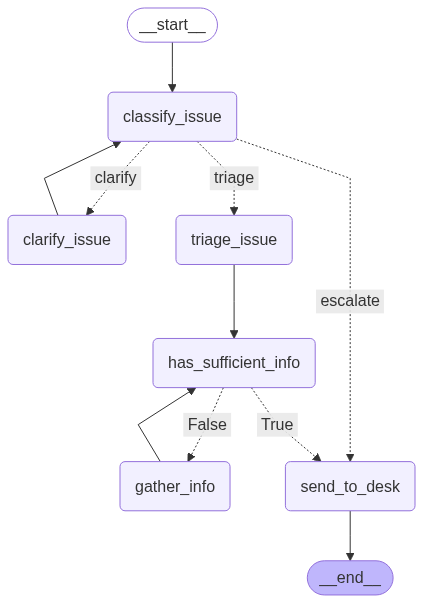
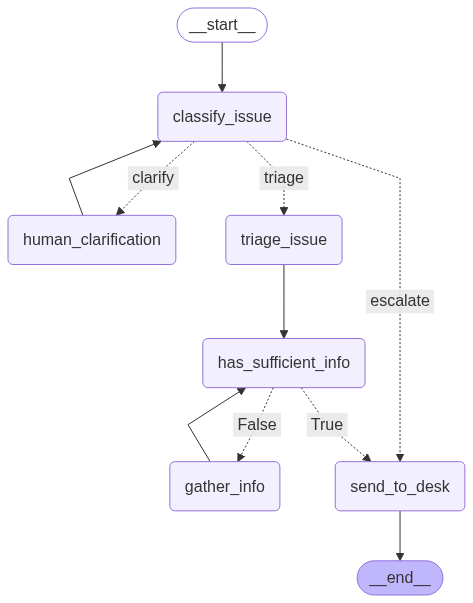
clarify_issue -> human_clarification + CLAUDE.md

diff --git a/backend/src/workflows/support_desk/workflow.py b/backend/src/workflows/support_desk/workflow.py
@@ -11,7 +11,7 @@ from langgraph.graph import StateGraph, END
 from langgraph.checkpoint.memory import MemorySaver
 
 from .state import SupportDeskState
-from .nodes.clarify_issue import clarify_issue_node
+from .nodes.human_clarification import human_clarification_node
 from .nodes.classify_issue import classify_issue_node, should_continue_to_triage
 from .nodes.triage_issue import triage_issue_node
 from .nodes.has_sufficient_info import has_sufficient_info_node, has_sufficient_info
@@ -33,14 +33,14 @@ def create_workflow(checkpointer, draw_diagram: bool = True):
     Enhanced Flow with Info Sufficiency Check:
     classify_issue → [sufficient info?] → triage_issue → has_sufficient_info
          ↑               [no]                                ↓ [False]        ↓ [True]
-         └─── clarify_issue ←──┘                      gather_info ←──┘    send_to_desk
+         └─── human_clarification ←──┘              gather_info ←──┘    send_to_desk
                                                            ↓ [asked question]
                                                       has_sufficient_info
     
     Natural Flow Behavior:
     - classify_issue attempts classification first
-    - If insufficient information: routes to clarify_issue for questions  
-    - clarify_issue asks for details and returns to classification
+    - If insufficient information: routes to human_clarification for questions  
+    - human_clarification collects user details and returns to classification
     - triage_issue assigns support team once classification is confident
     - has_sufficient_info determines if enough info exists (fast tool call)
     - gather_info asks ONE targeted question using streaming (HITL)
@@ -64,7 +64,7 @@ def create_workflow(checkpointer, draw_diagram: bool = True):
     workflow = StateGraph(SupportDeskState)
     
     # Add nodes to the workflow
-    workflow.add_node("clarify_issue", clarify_issue_node)
+    workflow.add_node("human_clarification", human_clarification_node)
     workflow.add_node("classify_issue", classify_issue_node)
     workflow.add_node("triage_issue", triage_issue_node)
     workflow.add_node("has_sufficient_info", has_sufficient_info_node)
@@ -79,14 +79,14 @@ def create_workflow(checkpointer, draw_diagram: bool = True):
         "classify_issue",
         should_continue_to_triage,
         {
-            "clarify": "clarify_issue",    # Need clarification
+            "clarify": "human_clarification",    # Need clarification
             "triage": "triage_issue",       # Ready to proceed with triage
             "escalate": "send_to_desk"      # User requested escalation
         }
     )
     
-    # Clarification loops back to classification
-    workflow.add_edge("clarify_issue", "classify_issue")
+    # Human clarification loops back to classification
+    workflow.add_edge("human_clarification", "classify_issue")
     
     # Continue with info sufficiency check after triage
     workflow.add_edge("triage_issue", "has_sufficient_info")

diff --git a/backend/src/workflows/support_desk/nodes/human_clarification.py b/backend/src/workflows/support_desk/nodes/human_clarification.py
@@ -1,0 +1,56 @@
+"""
+Human Clarification node for Support Desk workflow - HITL diamond node.
+
+This node represents the human interaction point for collecting user clarifications
+after classify_issue has generated and streamed the clarifying question.
+"""
+import logging
+from copy import deepcopy
+
+from ..state import SupportDeskState
+from langgraph.types import interrupt
+
+logger = logging.getLogger(__name__)
+
+
+async def human_clarification_node(state: SupportDeskState) -> SupportDeskState:
+    """
+    Human interaction node (diamond) that collects user clarification.
+    
+    The clarifying question has already been generated and streamed by classify_issue.
+    This node represents the human touchpoint in the workflow.
+
+    Args:
+        state: Workflow global state
+    
+    Returns:
+        Updated state with user's clarification response
+    """
+    state = deepcopy(state)
+    
+    # Log node entry
+    logger.info("→ human_clarification: waiting for user response")
+    
+    # Get current clarification attempts
+    clarification_attempts = state.get("gathering", {}).get("clarification_attempts", 0)
+    
+    # Interrupt and wait for user response (HITL diamond)
+    user_response = interrupt("Waiting for user response to clarification")
+    
+    # Add user response to messages
+    if user_response and str(user_response).strip():
+        if "messages" not in state:
+            state["messages"] = []
+        state["messages"].append({
+            "role": "user",
+            "content": str(user_response)
+        })
+        logger.info(f"→ received user response: {str(user_response)[:50]}...")
+    
+    # Increment clarification attempts
+    if "gathering" not in state:
+        state["gathering"] = {}
+    state["gathering"]["clarification_attempts"] = clarification_attempts + 1
+    logger.info(f"→ clarification attempt {clarification_attempts + 1} complete")
+    
+    return state

diff --git a/backend/src/workflows/support_desk/nodes/__init__.py b/backend/src/workflows/support_desk/nodes/__init__.py
@@ -4,7 +4,7 @@ Support Desk workflow node implementations.
 This package contains the node implementations for the IT Support Desk workflow.
 """
 
-from .clarify_issue import clarify_issue_node
+from .human_clarification import human_clarification_node
 from .classify_issue import classify_issue_node, should_continue_to_triage
 from .triage_issue import triage_issue_node
 from .has_sufficient_info import has_sufficient_info_node, has_sufficient_info
@@ -12,7 +12,7 @@ from .gather_info import gather_info_node
 from .send_to_desk import send_to_desk_node
 
 __all__ = [
-    "clarify_issue_node",
+    "human_clarification_node",
     "should_continue_to_triage",
     "classify_issue_node",
     "triage_issue_node",

diff --git a/CLAUDE.md b/CLAUDE.md
@@ -1,0 +1,14 @@
+# Agentic Workflows Workbench
+
+## Architecture
+- **LangGraph workflow** for multi-step agentic behavior
+- **Node naming convention**: `human_*` for HITL nodes (diamonds), descriptive names for LLM nodes (rectangles)
+- **Three-way routing** from classify_issue: clarify → triage → escalate
+
+## Workflow Design Principles
+- LLM nodes handle analysis and question generation
+- Human nodes (diamonds) handle interrupts and input collection only
+- Questions are generated and streamed BEFORE state updates to work with LangGraph's checkpoint model
+
+## Individual prefernces
+- @~/.claude/CLAUDE.md
